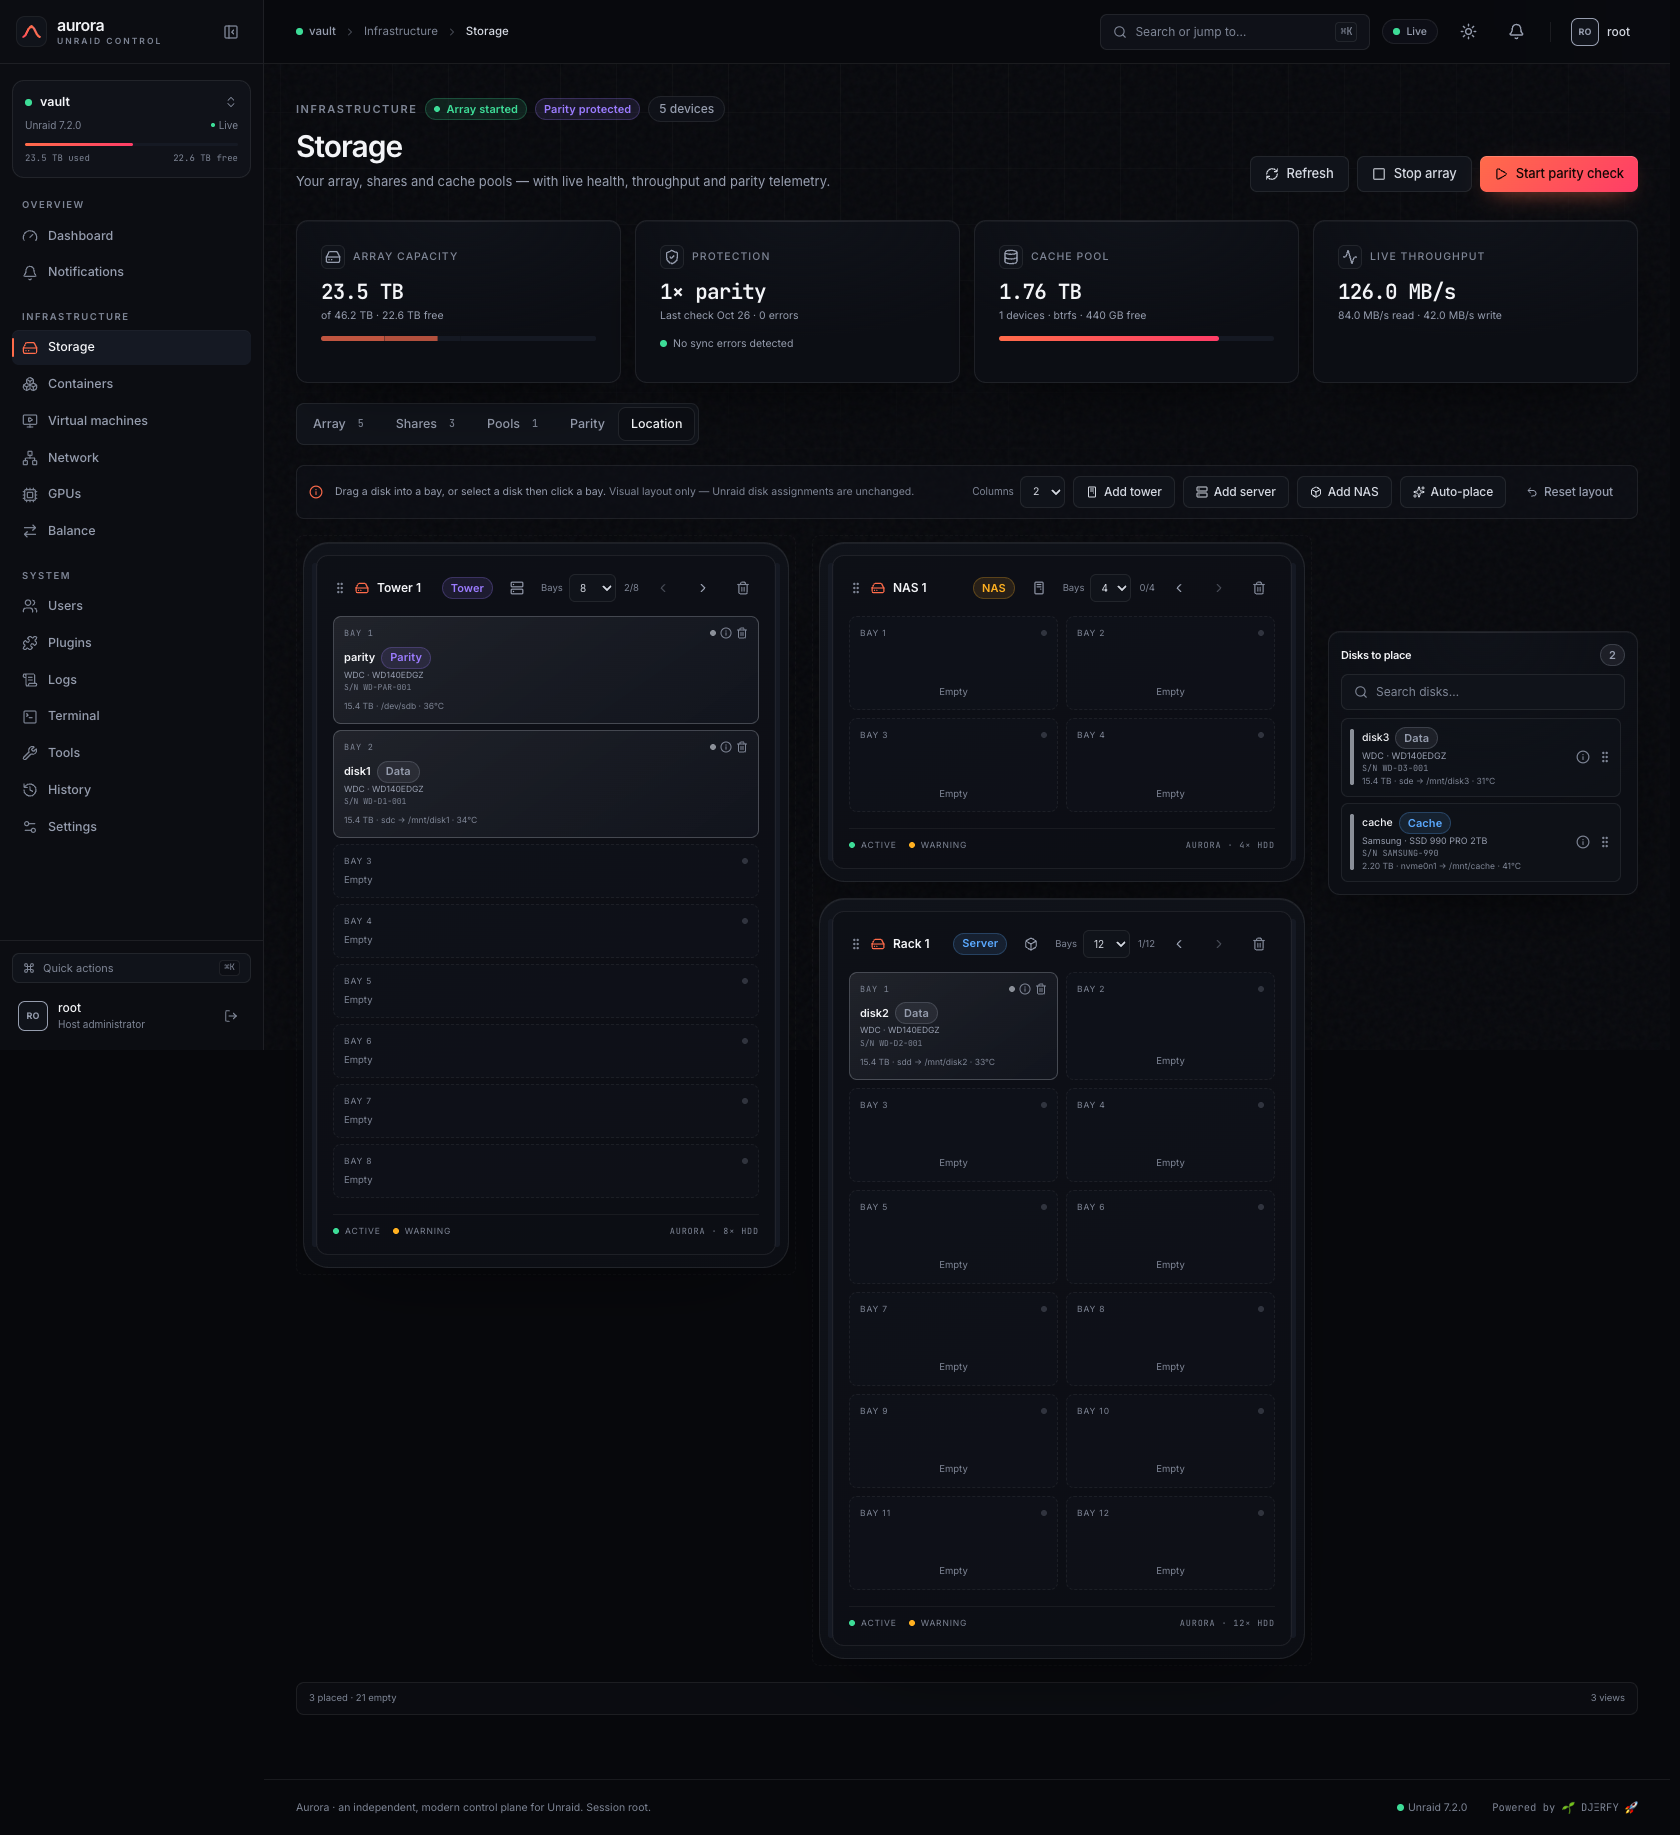
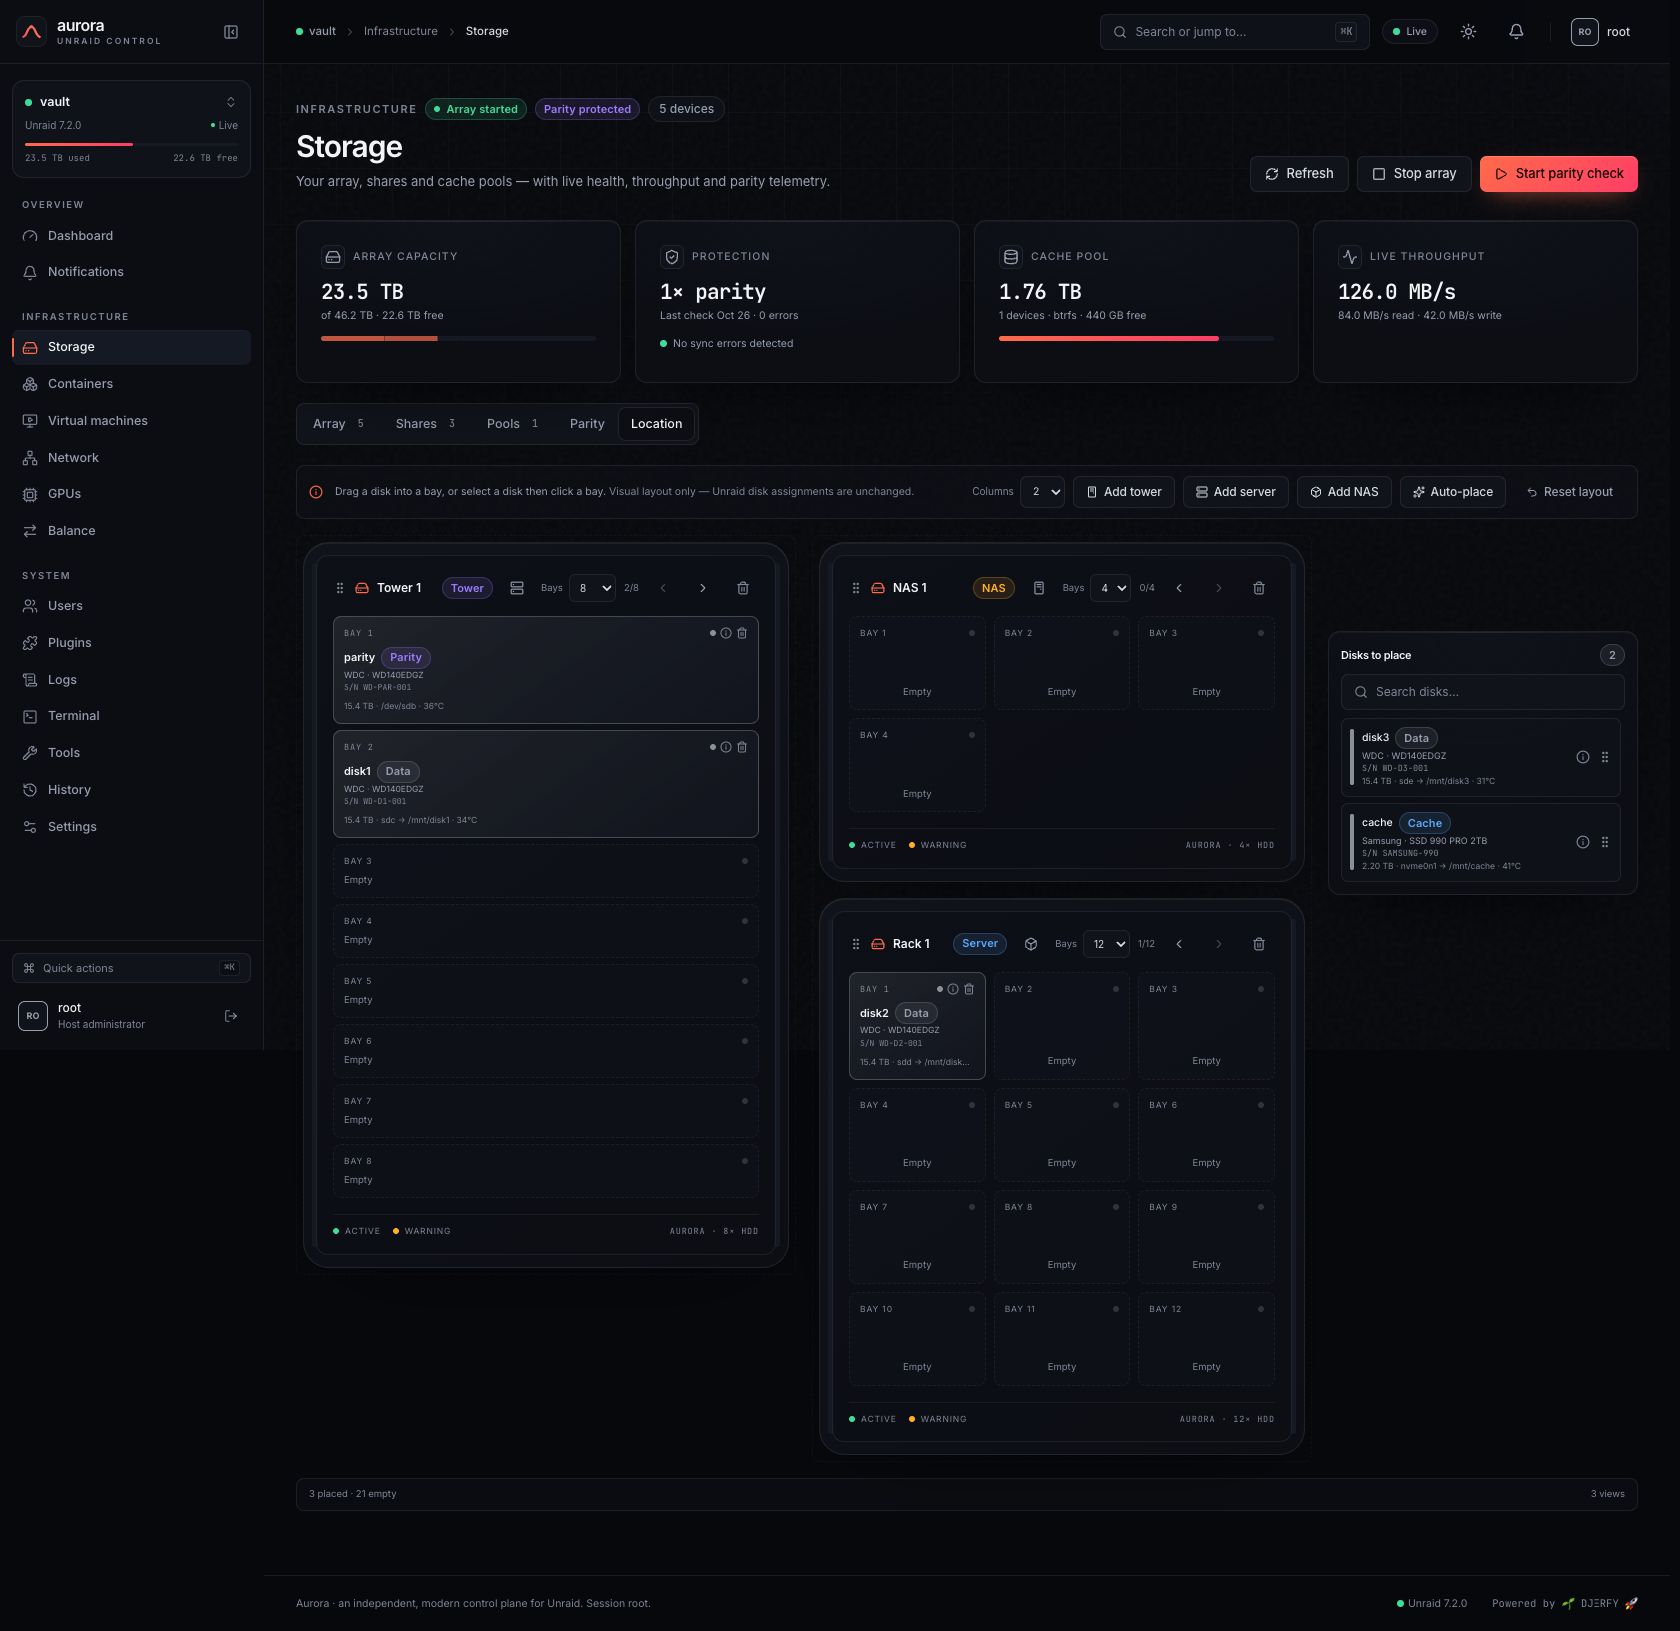
fix: keep the disk list beside four-column boards

diff --git a/frontend/src/components/storage/StorageLocation.tsx b/frontend/src/components/storage/StorageLocation.tsx
@@ -375,7 +375,14 @@ export function StorageLocation({
         </p>
       ) : null}
 
-      <div className={cn("grid gap-4", columns < 4 && "2xl:grid-cols-[minmax(0,1fr)_310px]")}>
+      <div
+        className={cn(
+          "grid gap-4",
+          columns === 4
+            ? "2xl:grid-cols-[minmax(0,1fr)_280px]"
+            : "2xl:grid-cols-[minmax(0,1fr)_310px]",
+        )}
+      >
         <div
           className={cn(
             "grid items-start gap-4",
@@ -656,7 +663,7 @@ function ViewCard({
 
         <div
           className={cn("mt-3", vertical ? "flex flex-col gap-1.5" : "grid gap-2")}
-          style={vertical ? undefined : { gridTemplateColumns: "repeat(auto-fill, minmax(160px, 1fr))" }}
+          style={vertical ? undefined : { gridTemplateColumns: "repeat(auto-fill, minmax(110px, 1fr))" }}
         >
           {Array.from({ length: view.bays }, (_, bay) => {
             const disk = disks.get(bay);

diff --git a/docs/USER_GUIDE.md b/docs/USER_GUIDE.md
@@ -134,6 +134,8 @@ disk assignments.
   columns, or removed.
 - The **Columns** selector (1–4) defines the board width. Drag a view by its grip into a column or
   above another view to place it exactly; the left/right arrows also move it between columns.
+- With four columns and enough width, the disk list stays beside a compact board; below that width
+  it moves under the board so the views keep their columns.
 - On narrow screens the board falls back to a single column, but the saved positions are retained.
   Views and column positions are stored in the layout file.
 - Drag a disk from **Disks to place** into a bay, or select a disk and click an empty bay.
